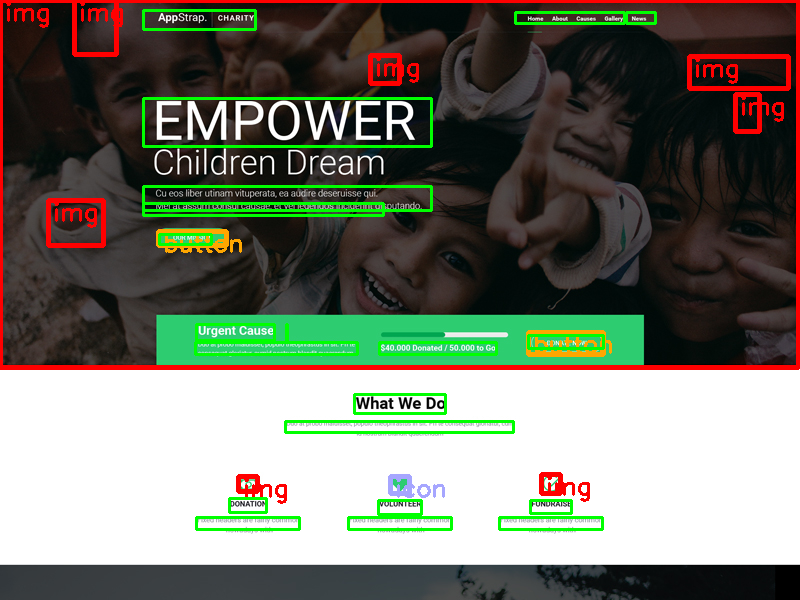
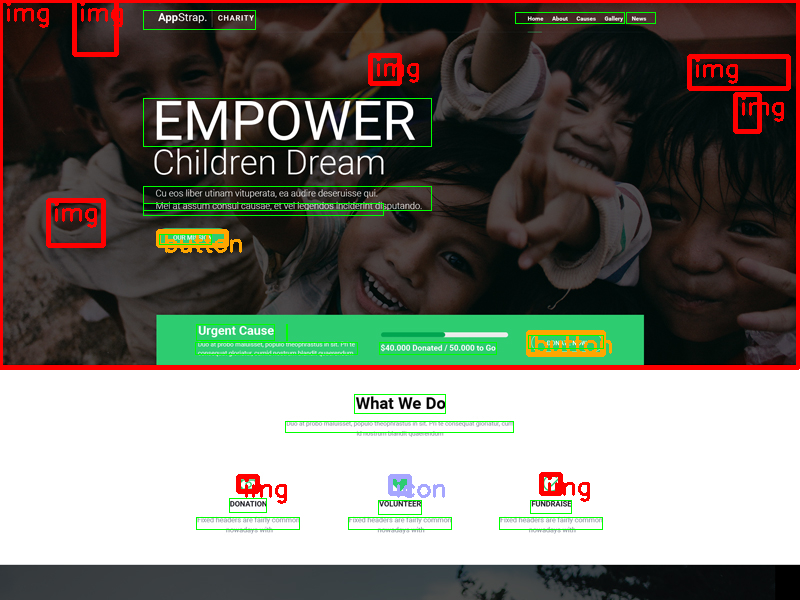
refine complete

diff --git a/code/IMG2CODE/body/merge.py b/code/IMG2CODE/body/merge.py
@@ -161,7 +161,7 @@ def incorporate(img_path, compo_path, text_path, output_path, is_clip=False, cli
     corners_compo_new, compos_class_new = nms(corners_compo, compos_class, corners_text)
 
     board = draw_bounding_box_class(img, corners_compo_new, compos_class_new)
-    board = draw_bounding_box(board, corners_text, line=2)
+    board = draw_bounding_box(board, corners_text, line=1)
 
     cv2.imwrite(output_path, board)
 
